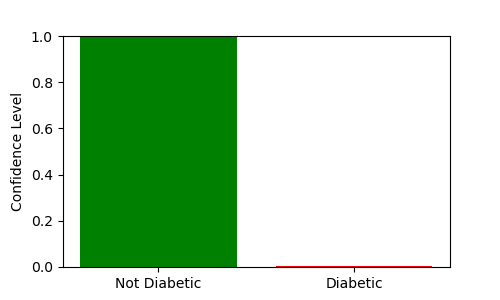
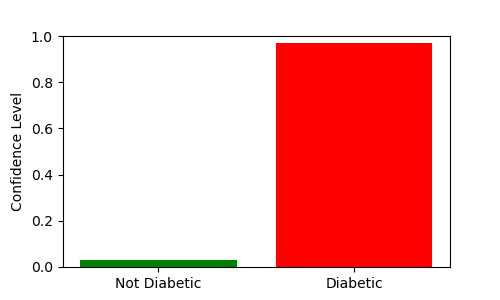
Implement Chart.js for prediction confidence visualization and remove old plotting code

diff --git a/templates/result.html b/templates/result.html
@@ -80,12 +80,16 @@
         <p><strong>Selected Model:</strong> {{ model }}</p>
         <p><strong>Prediction:</strong> {{ result }}</p>
         <p><strong>{{ prob_msg }}</strong></p>
-        <div class="chart">
-          <h3>Prediction Confidence</h3>
-          <img
-            src="{{ url_for('static', filename='probability_chart.png') }}"
-            alt="Probability Chart"
-          />
+        <!-- Chart.js Confidence Chart -->
+        <div class="chart-container my-5">
+          <h3 class="text-center">Prediction Confidence</h3>
+          <canvas id="confidenceChart"></canvas>
+          <!-- Download button -->
+          <div class="text-center mt-3">
+            <button id="downloadChart" class="btn btn-primary">
+              Save Chart as Image
+            </button>
+          </div>
         </div>
         <a href="/" class="btn btn-secondary"
           ><i class="fas fa-undo"></i> Go Back</a
@@ -105,5 +109,89 @@
       integrity="sha384-kenU1KFdBIe4zVF0s0G1M5b4hcpxyD9F7jL+Pn1F9cjPVBw7f0rV7TQK6bS5fN9I"
       crossorigin="anonymous"
     ></script>
+
+    <!-- Load Chart.js with defer so that it’s parsed before your inline script -->
+    <script src="https://cdn.jsdelivr.net/npm/chart.js@4.4.7/dist/chart.umd.min.js"></script>
+    <script defer>
+        document.addEventListener("DOMContentLoaded", () => {
+          // Retrieve the canvas context
+          const canvas = document.getElementById("confidenceChart");
+          const ctx = canvas.getContext("2d");
+
+          // Chart configuration
+          const probability = {{ probability | default(0) }};
+          const primaryColor = "rgba(203,166,247, 0.6)"; // for bars
+          const primaryBorder = "rgba(203,166,247, 1)";
+          const secondaryColor = "rgba(235,160,172, 0.6)"; // if you want a contrasting color
+          const secondaryBorder = "rgba(235,160,172, 1)";
+          const data = {
+            labels: ["Not Diabetic", "Diabetic"],
+            datasets: [{
+              label: "Confidence Level",
+              data: [1 - probability, probability],
+              backgroundColor: [
+                primaryColor,
+                secondaryColor
+              ],
+              borderColor: [
+                primaryBorder,
+                secondaryBorder
+              ],
+              borderWidth: 1
+            }]
+          };
+
+          const config = {
+            type: "bar",
+            data: data,
+            options: {
+              responsive: true,
+              plugins: {
+                legend: { display: true, position: "top" },
+                tooltip: {
+                  callbacks: {
+                    label: function(context) {
+                      const value = context.parsed.y;
+                      return context.dataset.label + ": " + (value * 100).toFixed(2) + "%";
+                    }
+                  }
+                }
+              },
+              scales: {
+                y: {
+                  beginAtZero: true,
+                  max: 1,
+                  ticks: {
+                    callback: value => (value * 100) + "%"
+                  },
+                  title: { display: true, text: "Confidence" }
+                }
+              }
+            }
+          };
+
+          // Create the Chart.js instance and store it in a variable
+          const chartInstance = new Chart(ctx, config);
+          // Optionally, attach it to window for debugging:
+          window.confidenceChart = chartInstance;
+
+
+          // Add event listener to the download button
+          document.getElementById("downloadChart").addEventListener("click", () => {
+            console.log("Chart instance:", confidenceChart);
+            if (typeof confidenceChart.toBase64Image === "function") {
+                const imageURL = confidenceChart.toBase64Image();
+                const link = document.createElement("a");
+                link.href = imageURL;
+                link.download = "confidence-chart.png";
+                document.body.appendChild(link);
+                link.click();
+                document.body.removeChild(link);
+              } else {
+                console.error("toBase64Image() is not available on confidenceChart. Check your Chart.js version and instance assignment.");
+              }
+          });
+      });
+    </script>
   </body>
 </html>

diff --git a/static/app.js b/static/app.js
@@ -1,72 +1,33 @@
 document.addEventListener("DOMContentLoaded", function () {
-  const themeModeSelect = document.getElementById("theme-mode");
-  const accentColorSelect = document.getElementById("accent-color");
-  // Default values (Dark mode with Mauve accent)
-  const defaultDark = {
-    bgColor: "#1e1e2e", // Base
-    mantle: "#181825", // Mantle
-    surface0: "#313244", // Surface 0 (container background)
-    textColor: "#cdd6f4", // Light text
-    overlayColor: "#6c7086", // Overlay
-    accent: "#cba6f7", // Mauve (default accent)
-  };
+  const currentTheme = localStorage.getItem("theme") || "dark";
+  document.body.classList.toggle("light-mode", currentTheme === "light");
 
-  // Light mode values (using Rosewater, etc.)
-  const defaultLight = {
-    bgColor: "#f5e0dc", // Rosewater
-    mantle: "#f2cdcd", // Flamingo
-    surface0: "#f5c2e7", // Pink
-    textColor: "#1e1e2e", // Dark text for light mode
-    overlayColor: "#a6adc8", // Subtext 0
-    accent: "#cba6f7", // Default accent remains Mauve unless changed
-  };
-
-  // Retrieve saved preferences or default to dark mode
-  const savedMode = localStorage.getItem("theme-mode") || "dark";
-  const savedAccent =
-    localStorage.getItem("accent-color") || defaultDark.accent;
-
-  // Set initial values in the controls
-  themeModeSelect.value = savedMode;
-  accentColorSelect.value = savedAccent;
-
-  // Apply the theme on load
-  applyTheme(savedMode, savedAccent);
-
-  // Listen for changes in theme mode
-  themeModeSelect.addEventListener("change", function () {
-    const mode = this.value;
-    const accent = accentColorSelect.value;
-    localStorage.setItem("theme-mode", mode);
-    applyTheme(mode, accent);
-  });
-
-  // Listen for changes in accent color
-  accentColorSelect.addEventListener("change", function () {
-    const accent = this.value;
-    const mode = themeModeSelect.value;
-    localStorage.setItem("accent-color", accent);
-    applyTheme(mode, accent);
-  });
-
-  function applyTheme(mode, accent) {
-    const root = document.documentElement;
-    if (mode === "light") {
-      root.style.setProperty("--bg-color", defaultLight.bgColor);
-      root.style.setProperty("--mantle", defaultLight.mantle);
-      root.style.setProperty("--surface0", defaultLight.surface0);
-      root.style.setProperty("--text-color", defaultLight.textColor);
-      root.style.setProperty("--overlay-color", defaultLight.overlayColor);
+  // When the theme control is changed:
+  document.getElementById("theme-mode").addEventListener("change", (e) => {
+    const theme = e.target.value;
+    if (theme === "light") {
+      document.body.classList.add("light-mode");
     } else {
-      root.style.setProperty("--bg-color", defaultDark.bgColor);
-      root.style.setProperty("--mantle", defaultDark.mantle);
-      root.style.setProperty("--surface0", defaultDark.surface0);
-      root.style.setProperty("--text-color", defaultDark.textColor);
-      root.style.setProperty("--overlay-color", defaultDark.overlayColor);
+      document.body.classList.remove("light-mode");
     }
-    // Update accent color (for primary and accent)
-    root.style.setProperty("--primary-color", accent);
-    root.style.setProperty("--accent-color", accent);
+    localStorage.setItem("theme", theme);
+  });
+
+  // Also update the accent color selection if needed:
+  document.getElementById("accent-color").addEventListener("change", (e) => {
+    const accent = e.target.value;
+    document.documentElement.style.setProperty("--primary-color", accent);
+    document.documentElement.style.setProperty("--accent-color", accent);
+    // Save preference if needed:
+    localStorage.setItem("accent", accent);
+  });
+
+  // On page load, if an accent is saved, apply it.
+  const savedAccent = localStorage.getItem("accent");
+  if (savedAccent) {
+    document.documentElement.style.setProperty("--primary-color", savedAccent);
+    document.documentElement.style.setProperty("--accent-color", savedAccent);
+    document.getElementById("accent-color").value = savedAccent;
   }
 
   // Handle form submission to show loading spinner

diff --git a/static/style.css b/static/style.css
@@ -13,8 +13,10 @@
 
 /* Light Mode Variables (will be set dynamically) */
 body.light-mode {
-  --primary-color: #cba6f7; /* This may be overridden by user accent choice */
-  --bg-color: #f5e0dc; /* Using Rosewater as light background */
+  --primary-color: #cba6f7; /* You can allow the user to override this */
+  --secondary-color: #eba0ac;
+  --accent-color: #cba6f7;
+  --bg-color: #f5e0dc; /* A soft Rosewater */
   --mantle: #f2cdcd;
   --surface0: #f5c2e7;
   --text-color: #1e1e2e; /* Dark text for light mode */

diff --git a/app.py b/app.py
@@ -306,20 +306,7 @@ def predict():
         # ------------------------------
         # 8. Generate a Confidence Chart
         # ------------------------------
-        plt.figure(figsize=(5, 3))
-        if probability is not None:
-            plt.bar(
-                ["Not Diabetic", "Diabetic"],
-                [1 - probability, probability],
-                color=["green", "red"],
-            )
-            plt.ylim([0, 1])
-            plt.ylabel("Confidence Level")
-        else:
-            plt.text(0.5, 0.5, "No Probability Available", horizontalalignment="center")
-        chart_path = os.path.join("static", "probability_chart.png")
-        plt.savefig(chart_path)
-        plt.close()
+        # No need to save the plot, just render it in the template
 
         # ------------------------------
         # 9. Render the Result Template
